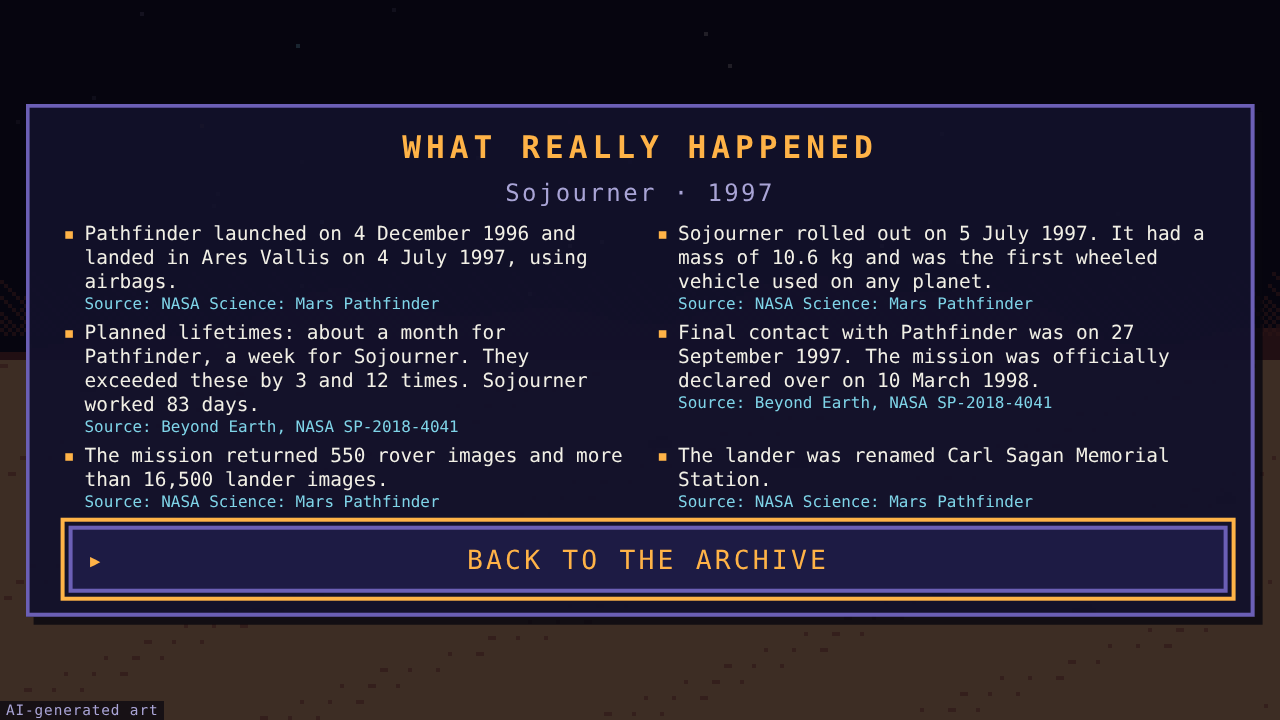
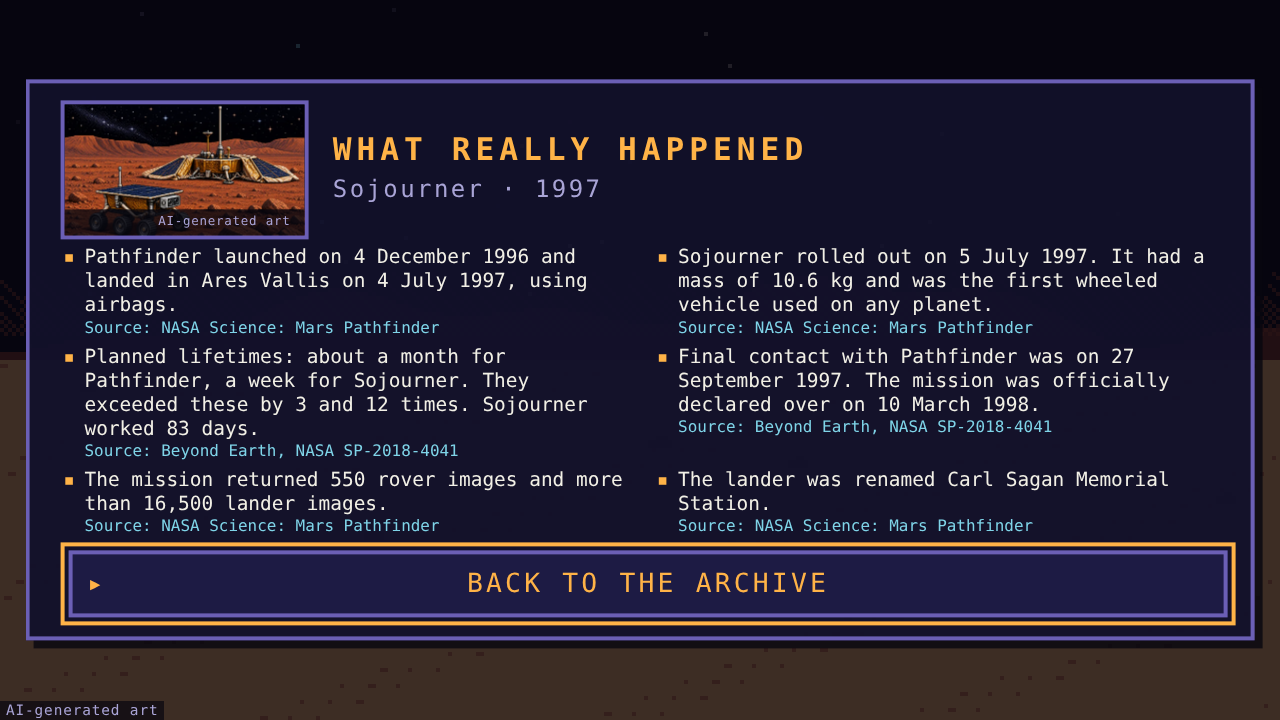
docs: refresh screenshots with art frames

Changed region(s): [[0.0, 0.0917, 1.0, 0.9167]]

diff --git a/README.md b/README.md
@@ -21,6 +21,8 @@ The black hole frame is narrative fiction based on general relativity (near a bl
 ![Opportunity mini-game](screenshots/05-opportunity-storm.png)
 *The Opportunity mini-game.*
 
+![Story screen with an illustrated frame](screenshots/13-story.png)
+
 ![What really happened card](screenshots/08-debrief.png)
 *A "What really happened" card.*
 
